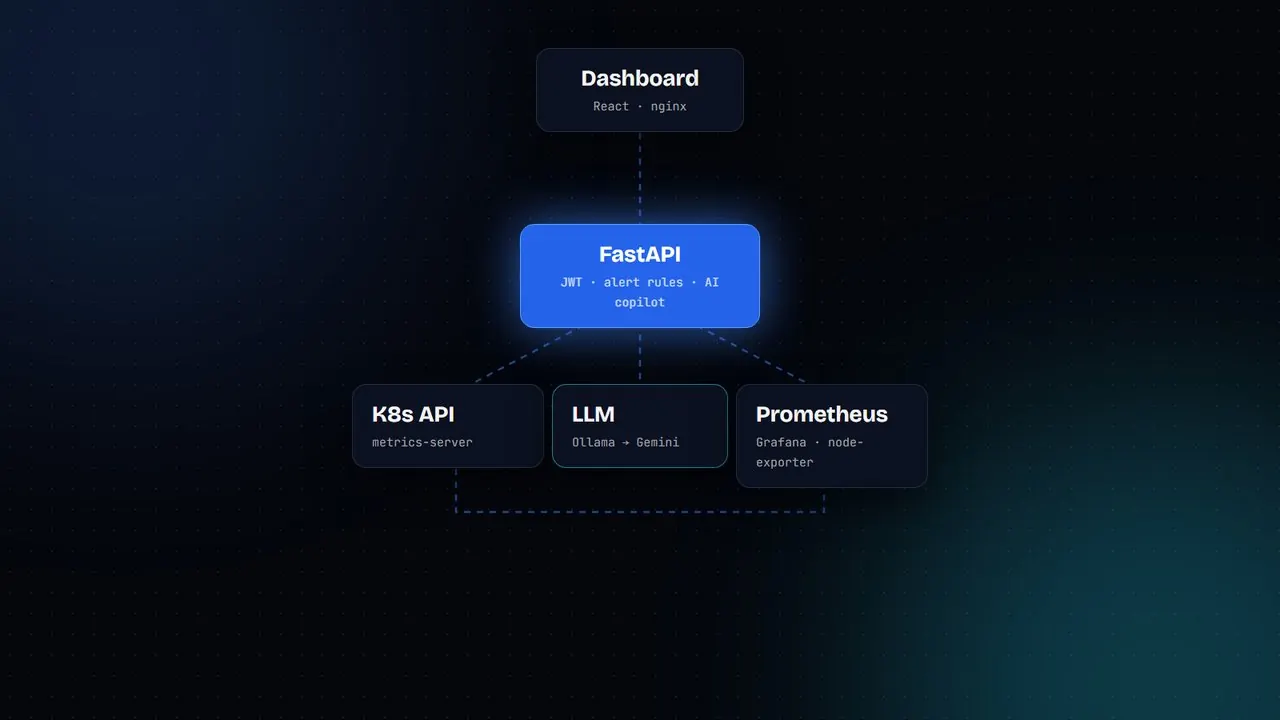
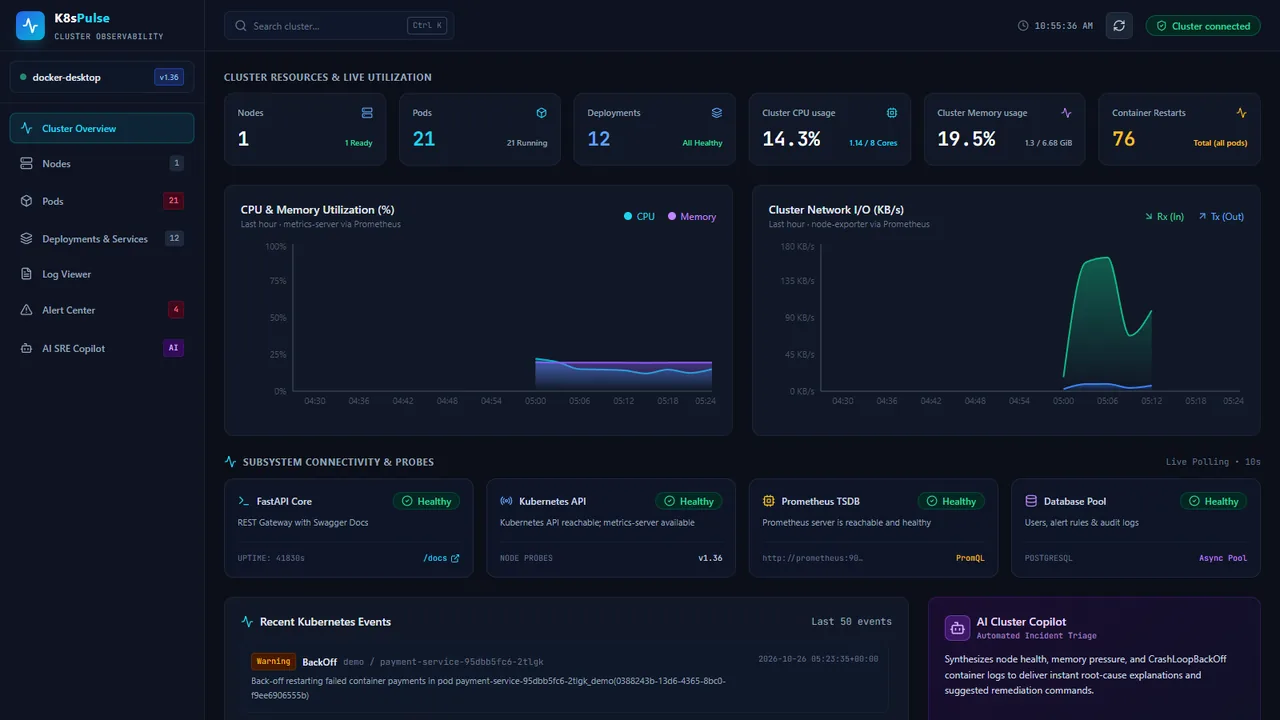
Update K8sPulse project with real dashboard screenshot and new features

diff --git a/src/components/Projects.jsx b/src/components/Projects.jsx
@@ -16,14 +16,14 @@ export const Projects = () => {
       badge: 'DevOps & AI',
       image: 'images/k8pulse',
       tags: ['FastAPI', 'React + TS', 'Kubernetes', 'Prometheus', 'Grafana', 'Ollama'],
-      shortDesc: 'Full-stack Kubernetes observability dashboard with a live alert engine and an AI SRE copilot that explains incidents.',
-      problem: 'Cluster problems like CrashLoopBackOff pods, memory pressure or NotReady nodes are scattered across kubectl output, metrics and logs, which slows down diagnosis.',
-      solution: 'Built a FastAPI backend that reads the cluster live through the Kubernetes API and metrics-server, stores history in Prometheus, evaluates alert rules, and streams AI analysis from a local Ollama model with Gemini as a fallback, all behind a React dashboard.',
+      shortDesc: 'Self-hosted Kubernetes dashboard with live metrics, self-resolving alerts and a private AI SRE copilot that diagnoses failing pods using a local LLM.',
+      problem: 'When a pod crash-loops, the evidence is scattered across kubectl output, metrics, events and the logs of a container that already died, which slows down every incident.',
+      solution: 'Built a FastAPI backend that reads the cluster live through the Kubernetes API and metrics-server, keeps history in Prometheus and evaluates alert rules every 30 seconds. A React dashboard brings it together, and an AI copilot feeds the status, exit reason and crashed-run logs of the failing pod to a local Ollama model (Gemini fallback) to explain the root cause.',
       features: [
-        'Live inventory of nodes, pods, deployments, services, namespaces and events.',
-        'Alert engine for CPU, memory, failing pods, restarts and NotReady nodes, with hold times and auto-resolve.',
-        'AI SRE copilot streaming cluster or per-pod analysis (Ollama first, Gemini fallback).',
-        'Pod log viewer with search, auto-provisioned Grafana dashboards and JWT authentication.'
+        'Pod status that matches kubectl (CrashLoopBackOff, Error, OOMKilled) with exit codes and crashed-run logs.',
+        'Alert engine for CPU, memory, crash loops, restarts and NotReady nodes, with hold times and auto-resolve.',
+        'Private AI SRE copilot: one-click diagnosis of failing pods, streamed live from a local model.',
+        'Ctrl+K search across the cluster, Grafana dashboards, JWT auth and a responsive UI.'
       ],
       techStack: 'Python, FastAPI, SQLAlchemy, PostgreSQL, Kubernetes client, Prometheus, Grafana, React, TypeScript, Recharts, Docker Compose, nginx',
       github: 'https://github.com/agilfaraz532-blip/k8pulse',
